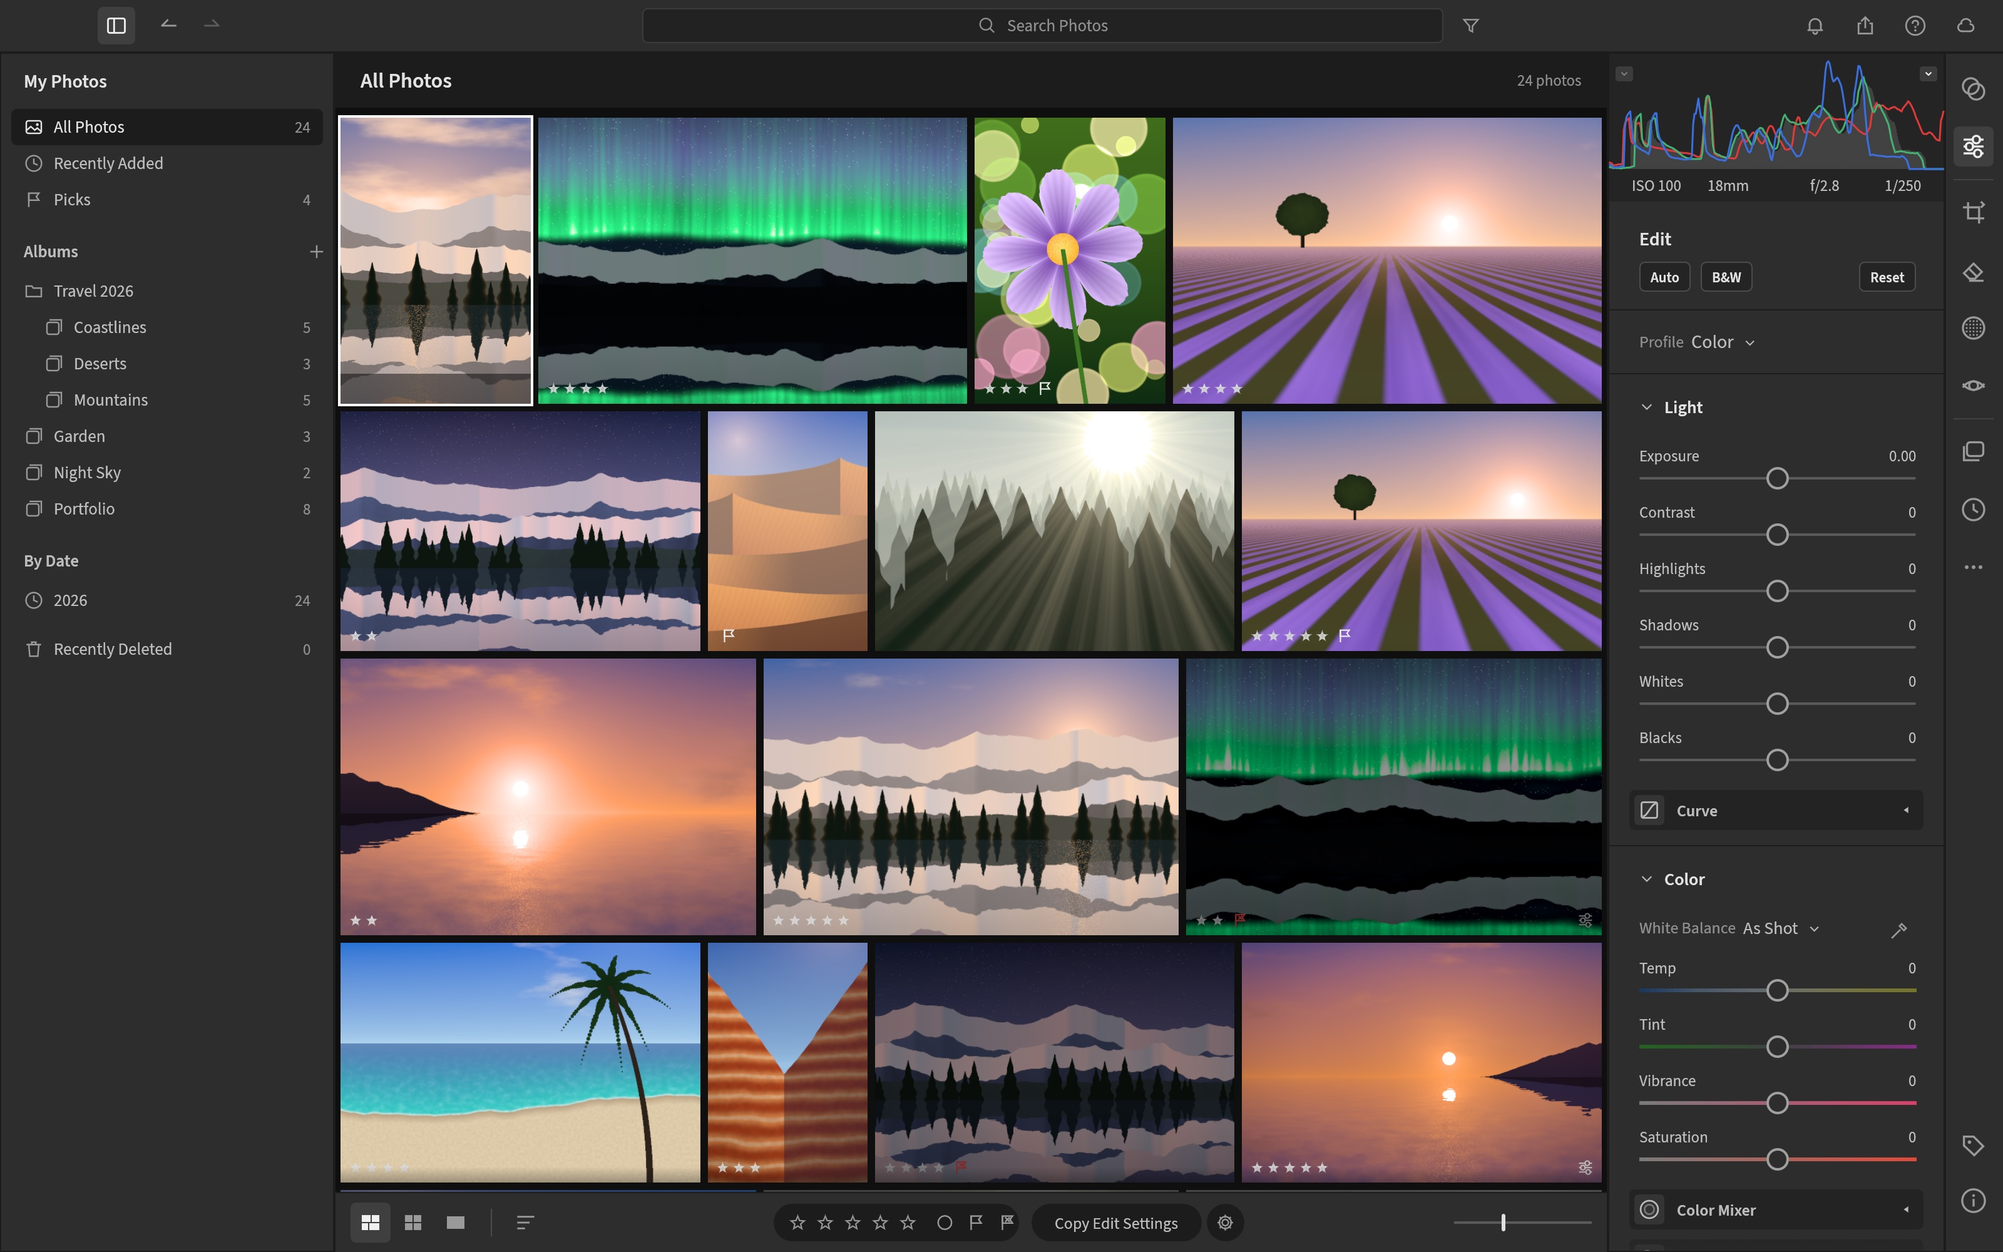
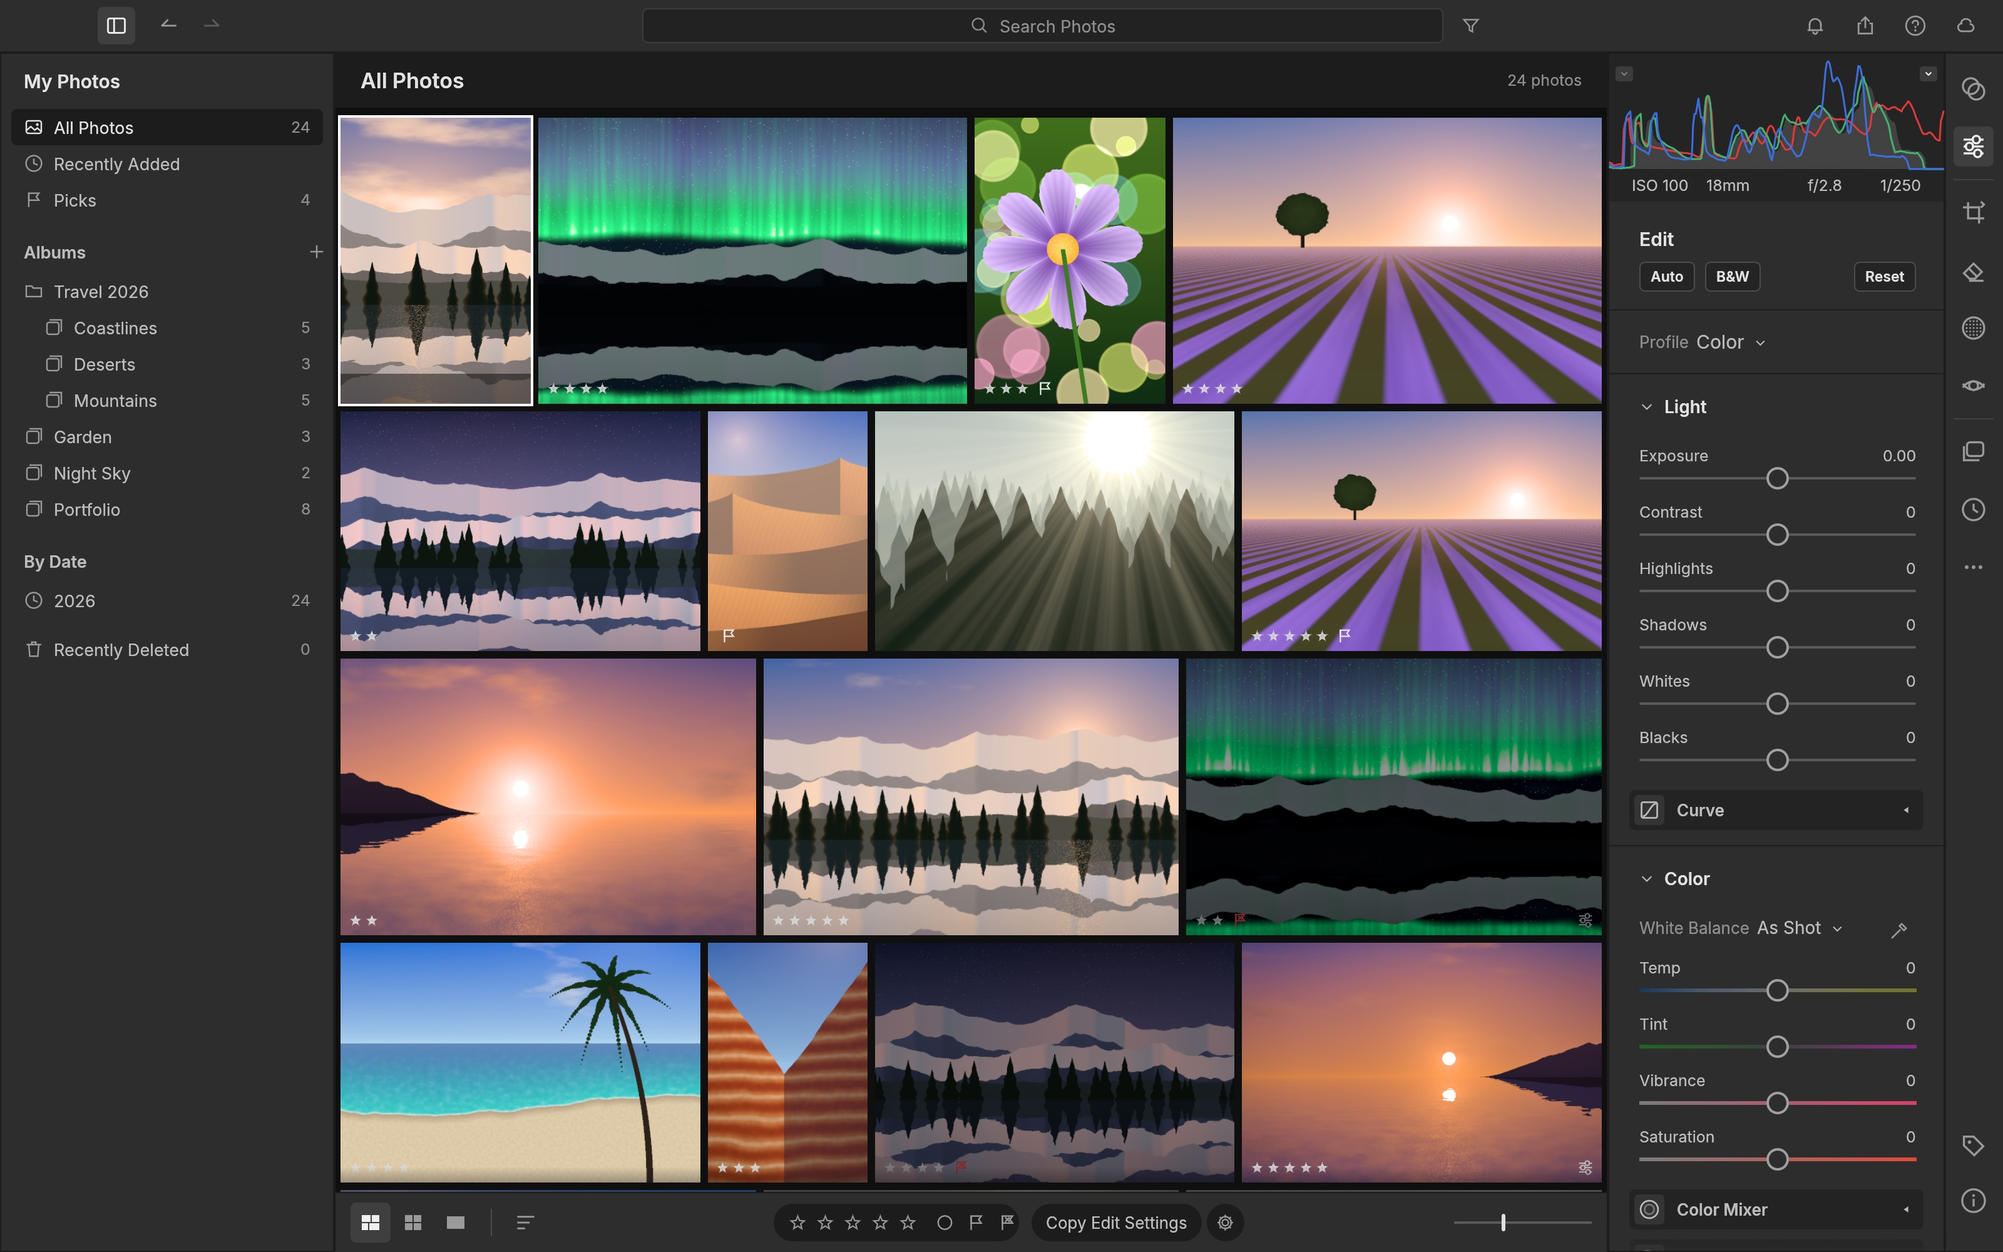
docs: README (MCP, CLI, export, status, contributing), AGENTS.md (asset enforcement, crash recovery, testing/perf), screenshots re-captured with Inter

diff --git a/AGENTS.md b/AGENTS.md
@@ -9,27 +9,55 @@ LightCraft is a clean-room, open-source, pure-Rust photo library + non-destructi
 
 `plan/` is gitignored (local-only).
 
+**Resuming after a crash / another session:** check `git status` on main, `git worktree list`, and each worktree's
+`git log main..HEAD` + `git status` for unmerged commits or uncommitted work before starting anything new. Commit small
+and often so a crash loses minutes, not hours.
+
 ## Non-negotiables
 - **Clean-room.** Never read/disassemble anything inside Adobe app bundles (names/listings only). Never copy Adobe icons, presets, profiles (DCP), lens profiles (LCP), camera matrices, fonts. Observation of the installed Lightroom is read-only (it syncs the user's personal library: never import/edit/rate/delete there). Never copy GPL/LGPL/AGPL code (darktable, RawTherapee, ART, LibRaw, rawspeed, rawloader, rawler, lensfun, dcraw-derived GPL code…).
 - **Pure Rust** in the product. No C/C++ dependencies.
 - **Layering** (`plan/architecture.md` §3, enforced by `cargo xtask layers`): nothing below L5 depends on egui/eframe/winit/rfd.
 - **Everything is a command** (`crates/engine`): id, label, menu path, shortcut, params, enabled(), run(). UI, CLI, control channel and MCP all dispatch by id. Every slider is a `develop` control spec.
 - **Resolution independence:** settings use normalized image coordinates and relative radii; previews and exports must match.
-- **Quality gates** before every commit: `cargo xtask ci` (fmt, clippy -D warnings, tests, layers, wasm).
+- **Quality gates** before every commit: `cargo xtask ci` (fmt, clippy -D warnings, tests, layers, assets, wasm).
 - **Commits:** one task id per commit (`M2.3: local Laplacian highlights/shadows`). Only green states. End messages with the attribution line required by the environment.
 
 ## Assets: icons, images, fonts (ABSOLUTE RULE — never violate)
 - **Never use any iconography, image, artwork, font, sound or other asset from Adobe products** (no Lightroom/Creative Cloud icons, no screenshots, no presets/profiles/LUTs, no UI bitmaps — not even as a temporary placeholder or "reference copy"). Observing Adobe's UI to imitate *layout and behaviour* is allowed; copying or tracing its assets is not.
+- **This includes Adobe's open-licensed assets**: no Source Sans/Serif/Code or Source Han fonts, no Adobe Fonts, no
+  Adobe-published icon sets, sample photos, colour profiles or LUTs — even when OFL/MIT. The UI font is Inter (OFL).
 - Every asset in the repository must be one of: **our own original work** (e.g. icons drawn in code as vectors, procedurally generated demo photos), **public domain / CC0**, **Creative Commons** (CC-BY / CC-BY-SA with attribution honoured), **OFL** (fonts), or **permissive open-source** (MIT/Apache-2.0/BSD/ISC) — or contributed by a person who created the asset and licenses it openly.
 - **Every asset must have an entry in `assets/ATTRIBUTION.md`** (path, title, author/creator, source URL or "original work", licence, date added, modifications) and its licence text when required (e.g. `assets/fonts/OFL-*.txt`). Add the entry in the same commit as the asset. Assets without an attribution entry must not be committed.
 - Icons drawn in code (e.g. `crates/ui-egui/src/icons.rs`) are original work and are recorded in `assets/ATTRIBUTION.md` as such; do not trace them from Adobe icons.
 - Demo/test images: generated procedurally by `lightcraft-scenes`, or CC0 downloads kept in the gitignored `corpus/` with their source recorded. Screenshots of Adobe apps live only in the gitignored `plan/` and are never committed or published.
+- **Enforced:** `cargo xtask assets` (in `ci`) fails when an image/icon/font/sound/video/raw/ICC/XMP file is not matched
+  by a path pattern in the first column of `assets/ATTRIBUTION.md`, when a referenced licence file is missing, when a
+  file name suggests Adobe material, or when an Adobe profile/template format (`.dcp`, `.lcp`, `.lrtemplate`, …) appears.
+  Never weaken this check to make a commit pass — fix the attribution or remove the asset.
 - When in doubt about an asset's licence: don't use it.
 
 ## Running and looking at the app
 - `cargo run --release -p lightcraft -- --control 7980` opens the desktop app with the JSON-lines control server (see `docs/control-protocol.md`).
 - For UI work, **look at the result**: drive via the control channel and take `ui.screenshot`, compare with `plan/lightroom/screenshots/`.
-- MCP: `lightcraft-cli mcp` (see `docs/mcp.md`).
+- MCP: `lightcraft-cli mcp` (headless, `--demo` for the procedural library) or `lightcraft-cli mcp --connect` (drives
+  the running app). See `docs/mcp.md`. Quick non-UI checks: `lightcraft-cli render in.jpg -o out.jpg --set light.exposure=1`.
+- Export goes through `lightcraft_engine::export` (one encoder for app, CLI, MCP and web); UI-only commands live in
+  `crates/ui-egui/src/menus.rs`.
 - Shell gotcha: `mv`/`cp` are aliased interactive here — use `/bin/mv -f` / `/bin/cp -f`.
 - Parallel agents: separate git worktrees and `CARGO_TARGET_DIR=target/agent-<name>`; keep every `Cargo.toml` valid at all times (the `crates/*` glob means one broken manifest breaks everyone).
 - Test corpora: `cargo xtask corpus --download` into `corpus/` (gitignored, CC0 only). Never commit media.
+
+## Testing & performance (do this often)
+- Unit/property tests next to the code; end-to-end tests drive real binaries (`crates/mcp/tests/e2e.rs`,
+  `apps/lightcraft-cli/tests/`). New features need at least one test that would fail without them.
+- **Run the app after every user-visible change**: launch with `--control 7980`, drive it with a JSON-lines script
+  (`docs/showcase/run.py file.jsonl`), take `ui.screenshot`, and look at it. Check `ui.inspect` → `perf`.
+- **Measure, don't guess**: `LIGHTCRAFT_PROFILE=1` prints per-stage pipeline timings to stderr; time CLI renders
+  with `/usr/bin/time`. Record numbers in `plan/STATUS.md` → Metrics. Budgets: slider update ≤ 16 ms (draft) / loupe
+  ≤ 60 ms on ~2.5 MP; export ≤ 1 s per 24 MP JPEG.
+- Never commit media: test images are procedural (`lightcraft-scenes`) or CC0 downloads in the gitignored `corpus/`.
+
+## Map of the code
+`geom`, `color`, `raster`, `tiff` (L0) → `raw`, `codecs`, `meta`, `develop` (L1) → `pipeline` → `catalog` → `engine`
+→ `ui-egui`, `mcp` (L5) → apps `lightcraft` (desktop), `lightcraft-cli` (render/commands/MCP). `scenes` generates demo
+photos. `xtask` = tooling (`ci`, `layers`, `assets`, `wasm`, `corpus`, `stats`).

diff --git a/CLAUDE.md b/CLAUDE.md
@@ -9,27 +9,55 @@ LightCraft is a clean-room, open-source, pure-Rust photo library + non-destructi
 
 `plan/` is gitignored (local-only).
 
+**Resuming after a crash / another session:** check `git status` on main, `git worktree list`, and each worktree's
+`git log main..HEAD` + `git status` for unmerged commits or uncommitted work before starting anything new. Commit small
+and often so a crash loses minutes, not hours.
+
 ## Non-negotiables
 - **Clean-room.** Never read/disassemble anything inside Adobe app bundles (names/listings only). Never copy Adobe icons, presets, profiles (DCP), lens profiles (LCP), camera matrices, fonts. Observation of the installed Lightroom is read-only (it syncs the user's personal library: never import/edit/rate/delete there). Never copy GPL/LGPL/AGPL code (darktable, RawTherapee, ART, LibRaw, rawspeed, rawloader, rawler, lensfun, dcraw-derived GPL code…).
 - **Pure Rust** in the product. No C/C++ dependencies.
 - **Layering** (`plan/architecture.md` §3, enforced by `cargo xtask layers`): nothing below L5 depends on egui/eframe/winit/rfd.
 - **Everything is a command** (`crates/engine`): id, label, menu path, shortcut, params, enabled(), run(). UI, CLI, control channel and MCP all dispatch by id. Every slider is a `develop` control spec.
 - **Resolution independence:** settings use normalized image coordinates and relative radii; previews and exports must match.
-- **Quality gates** before every commit: `cargo xtask ci` (fmt, clippy -D warnings, tests, layers, wasm).
+- **Quality gates** before every commit: `cargo xtask ci` (fmt, clippy -D warnings, tests, layers, assets, wasm).
 - **Commits:** one task id per commit (`M2.3: local Laplacian highlights/shadows`). Only green states. End messages with the attribution line required by the environment.
 
 ## Assets: icons, images, fonts (ABSOLUTE RULE — never violate)
 - **Never use any iconography, image, artwork, font, sound or other asset from Adobe products** (no Lightroom/Creative Cloud icons, no screenshots, no presets/profiles/LUTs, no UI bitmaps — not even as a temporary placeholder or "reference copy"). Observing Adobe's UI to imitate *layout and behaviour* is allowed; copying or tracing its assets is not.
+- **This includes Adobe's open-licensed assets**: no Source Sans/Serif/Code or Source Han fonts, no Adobe Fonts, no
+  Adobe-published icon sets, sample photos, colour profiles or LUTs — even when OFL/MIT. The UI font is Inter (OFL).
 - Every asset in the repository must be one of: **our own original work** (e.g. icons drawn in code as vectors, procedurally generated demo photos), **public domain / CC0**, **Creative Commons** (CC-BY / CC-BY-SA with attribution honoured), **OFL** (fonts), or **permissive open-source** (MIT/Apache-2.0/BSD/ISC) — or contributed by a person who created the asset and licenses it openly.
 - **Every asset must have an entry in `assets/ATTRIBUTION.md`** (path, title, author/creator, source URL or "original work", licence, date added, modifications) and its licence text when required (e.g. `assets/fonts/OFL-*.txt`). Add the entry in the same commit as the asset. Assets without an attribution entry must not be committed.
 - Icons drawn in code (e.g. `crates/ui-egui/src/icons.rs`) are original work and are recorded in `assets/ATTRIBUTION.md` as such; do not trace them from Adobe icons.
 - Demo/test images: generated procedurally by `lightcraft-scenes`, or CC0 downloads kept in the gitignored `corpus/` with their source recorded. Screenshots of Adobe apps live only in the gitignored `plan/` and are never committed or published.
+- **Enforced:** `cargo xtask assets` (in `ci`) fails when an image/icon/font/sound/video/raw/ICC/XMP file is not matched
+  by a path pattern in the first column of `assets/ATTRIBUTION.md`, when a referenced licence file is missing, when a
+  file name suggests Adobe material, or when an Adobe profile/template format (`.dcp`, `.lcp`, `.lrtemplate`, …) appears.
+  Never weaken this check to make a commit pass — fix the attribution or remove the asset.
 - When in doubt about an asset's licence: don't use it.
 
 ## Running and looking at the app
 - `cargo run --release -p lightcraft -- --control 7980` opens the desktop app with the JSON-lines control server (see `docs/control-protocol.md`).
 - For UI work, **look at the result**: drive via the control channel and take `ui.screenshot`, compare with `plan/lightroom/screenshots/`.
-- MCP: `lightcraft-cli mcp` (see `docs/mcp.md`).
+- MCP: `lightcraft-cli mcp` (headless, `--demo` for the procedural library) or `lightcraft-cli mcp --connect` (drives
+  the running app). See `docs/mcp.md`. Quick non-UI checks: `lightcraft-cli render in.jpg -o out.jpg --set light.exposure=1`.
+- Export goes through `lightcraft_engine::export` (one encoder for app, CLI, MCP and web); UI-only commands live in
+  `crates/ui-egui/src/menus.rs`.
 - Shell gotcha: `mv`/`cp` are aliased interactive here — use `/bin/mv -f` / `/bin/cp -f`.
 - Parallel agents: separate git worktrees and `CARGO_TARGET_DIR=target/agent-<name>`; keep every `Cargo.toml` valid at all times (the `crates/*` glob means one broken manifest breaks everyone).
 - Test corpora: `cargo xtask corpus --download` into `corpus/` (gitignored, CC0 only). Never commit media.
+
+## Testing & performance (do this often)
+- Unit/property tests next to the code; end-to-end tests drive real binaries (`crates/mcp/tests/e2e.rs`,
+  `apps/lightcraft-cli/tests/`). New features need at least one test that would fail without them.
+- **Run the app after every user-visible change**: launch with `--control 7980`, drive it with a JSON-lines script
+  (`docs/showcase/run.py file.jsonl`), take `ui.screenshot`, and look at it. Check `ui.inspect` → `perf`.
+- **Measure, don't guess**: `LIGHTCRAFT_PROFILE=1` prints per-stage pipeline timings to stderr; time CLI renders
+  with `/usr/bin/time`. Record numbers in `plan/STATUS.md` → Metrics. Budgets: slider update ≤ 16 ms (draft) / loupe
+  ≤ 60 ms on ~2.5 MP; export ≤ 1 s per 24 MP JPEG.
+- Never commit media: test images are procedural (`lightcraft-scenes`) or CC0 downloads in the gitignored `corpus/`.
+
+## Map of the code
+`geom`, `color`, `raster`, `tiff` (L0) → `raw`, `codecs`, `meta`, `develop` (L1) → `pipeline` → `catalog` → `engine`
+→ `ui-egui`, `mcp` (L5) → apps `lightcraft` (desktop), `lightcraft-cli` (render/commands/MCP). `scenes` generates demo
+photos. `xtask` = tooling (`ci`, `layers`, `assets`, `wasm`, `corpus`, `stats`).

diff --git a/README.md b/README.md
@@ -174,12 +174,23 @@ lightcraft --control 7980 ~/Pictures/trip
 {"method": "ui.screenshot",    "params": {"path": "after.png"}}
 ```
 
-- **90 engine commands** and **48 UI commands** — list them all with `engine.commands`, read every slider's range,
+- **91 engine commands** and **48 UI commands** — list them all with `engine.commands`, read every slider's range,
   default and current value with `develop.controls`.
+- **MCP server** — `lightcraft-cli mcp` gives Claude (or any MCP client) ~100 tools: import, query, develop, mask,
+  render (returned as an image), export — headless, or attached to the running app with screenshots, clicks and
+  gestures. See [docs/mcp.md](docs/mcp.md).
+
+  ```sh
+  cargo build --release -p lightcraft-cli
+  claude mcp add lightcraft -- "$PWD/target/release/lightcraft-cli" mcp ~/Pictures/shoot          # headless
+  claude mcp add lightcraft-app -- "$PWD/target/release/lightcraft-cli" mcp --connect 127.0.0.1:7980  # live app
+  ```
+- **Scriptable CLI** — `lightcraft-cli render in.dng -o out.jpg --set light.exposure=0.7 --preset …`.
 - **Undo for everything**, including agent actions: a slider drag (or a scripted burst of updates) is one undo step.
 - **Every widget is addressable** (`ui.widgets`) and clickable by name, so agents can operate the real UI, not a
   side door.
 - The screenshots in this README were produced by [`docs/showcase/`](docs/showcase/) scripts, end to end.
+  Protocol reference: [docs/control-protocol.md](docs/control-protocol.md).
 
 <br>
 
@@ -208,12 +219,14 @@ LightCraft is young and moving fast — see the [roadmap](ROADMAP.md) for estima
 | Light, Color, Effects, Tone Curve, Color Mixer, Color Grading, B&W | ✅ |
 | Masking: brush, linear, radial, luminance/colour range, add/subtract/intersect | ✅ (AI subject/sky use classical heuristics for now) |
 | Crop, straighten, flip, rotate, aspect ratios, overlays | ✅ |
-| Presets, versions, history, copy/paste/sync settings | ✅ |
+| Profiles (Color, Neutral, Vivid, Landscape, Portrait, Monochrome — our own looks), presets, versions, history, copy/paste/sync settings | ✅ |
 | Control channel + every widget addressable | ✅ |
-| RAW: DNG, CR2 | ✅ · NEF, ARW, CR3, RAF, ORF, RW2… 🚧 |
-| Detail (sharpening ✅, noise reduction 🚧), Optics, Geometry/Upright | 🚧 |
-| Remove / Heal / Clone, Red Eye | 🚧 (spots are recorded; rendering lands in M8) |
-| Export dialog, MCP server, CLI, GPU pipeline, web build | 🚧 |
+| RAW: DNG, CR2, ARW, NEF (uncompressed) | ✅ · compressed NEF, CR3, RAF, ORF, RW2, PEF… 🚧 |
+| Detail: sharpening, luminance + colour noise reduction | ✅ · AI Denoise, Super Resolution ⬜ |
+| Remove / Heal / Clone spots (auto source) | ✅ · content-aware fill (PatchMatch), Red Eye 🚧 |
+| Export: JPEG / PNG / TIFF / WebP / AVIF, sizing, file-size limit, output sharpening, naming, batch | ✅ · metadata policy, watermark, DNG ⬜ |
+| MCP server, CLI, control channel | ✅ |
+| Optics, Geometry/Upright, GPU pipeline, web build, persistent library | 🚧 |
 
 <br>
 
@@ -224,6 +237,7 @@ git clone https://github.com/storytold/lightcraft && cd lightcraft
 cargo run --release -p lightcraft                       # opens with a procedurally generated demo library
 cargo run --release -p lightcraft -- ~/Pictures/trip    # or point it at your photos (folders are scanned)
 cargo run --release -p lightcraft -- --control 7980     # with the automation channel
+cargo run --release -p lightcraft-cli -- render photo.jpg -o out.jpg --set light.exposure=0.5
 cargo xtask ci                                          # fmt, clippy, tests, layering, wasm checks
 ```
 
@@ -235,7 +249,20 @@ Keyboard: <kbd>G</kbd> grid · <kbd>D</kbd> detail · <kbd>E</kbd> edit · <kbd>
 
 An engine-first Cargo workspace of small, tested crates with enforced layering (`cargo xtask layers`): `geom`,
 `color`, `raster`, `tiff` → `raw`, `codecs`, `meta`, `develop` → `pipeline` → `catalog` → `engine` → `ui-egui`. The
-egui frontend is one swappable crate; nothing below it knows a UI exists.
+egui frontend is one swappable crate; nothing below it knows a UI exists. `mcp` and the apps (`lightcraft`,
+`lightcraft-cli`) sit on top of `engine`.
+
+## Contributing
+
+Humans and agents follow the same rules — read [AGENTS.md](AGENTS.md) first. The short version:
+
+- **Clean-room.** Never read Adobe binaries or GPL raw/photo code (darktable, RawTherapee, LibRaw, rawspeed, dcraw…);
+  work from public specs and black-box observation.
+- **No Adobe assets, ever** — no icons, screenshots, presets, profiles, LUTs or fonts from Adobe products. Every
+  image, icon and font in the repo is original, public domain, Creative Commons, OFL or permissively licensed, and has
+  an entry in [assets/ATTRIBUTION.md](assets/ATTRIBUTION.md) added in the same commit.
+- **Pure Rust**, enforced crate layering, everything is a command, and `cargo xtask ci` green before every commit
+  (one task id per commit).
 
 <br>
 
@@ -258,7 +285,7 @@ Clean-room, pure-Rust creative tools from the same workshop — native on macOS,
 Showcase photographs are public-domain works, used via Wikimedia Commons: Ansel Adams, *The Tetons and the Snake River*
 (1942, U.S. National Archives); Dorothea Lange, *Migrant Mother* (1936, Library of Congress); Bill Anders / NASA,
 *Earthrise* (1968); NASA, *The Blue Marble* (1972). The demo library is procedurally generated by LightCraft. UI font:
-Source Sans 3 (SIL OFL). All icons are original. See [assets/ATTRIBUTION.md](assets/ATTRIBUTION.md).
+Inter (SIL OFL). All icons are original. See [assets/ATTRIBUTION.md](assets/ATTRIBUTION.md).
 
 LightCraft is an independent project and is not affiliated with or endorsed by Adobe. Licence: MIT OR Apache-2.0.
 By the artcraft team.
